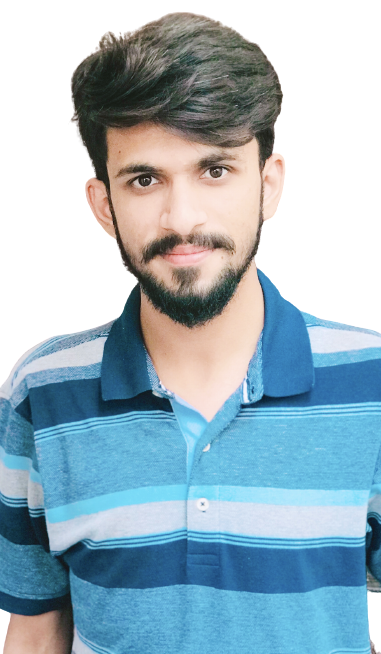
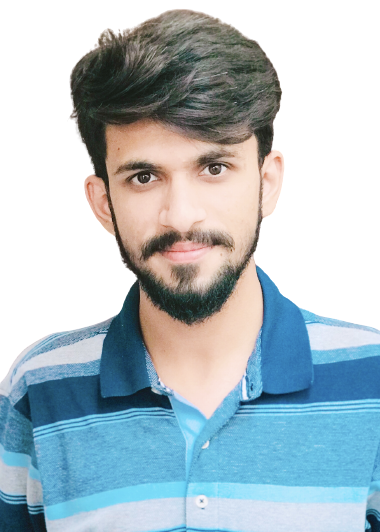
cc

diff --git a/styles/styles.css b/styles/styles.css
@@ -186,23 +186,245 @@ section {
             background: var(--color-white);
             color: var(--color-secondary);
         }
-.header-content .left-header .image {
-  border-radius: var(--br-sm-2);
-  height: 70%;
-  width: 45%;
-  margin-left: 4rem;
-  background-color: var(--color-secondary);
-  transition: all 0.4s ease-in-out;
+/* Enhanced Hero Image Styles */
+.hero-image-container {
+  position: relative;
+  height: 80%;
+  width: 50%;
+  margin-left: 3rem;
+  display: flex;
+  align-items: center;
+  justify-content: center;
 }
-.header-content .left-header .image img {
+
+.image-wrapper {
+  position: relative;
+  width: 320px;
+  height: 400px;
+  border-radius: 25px;
+  overflow: hidden;
+  box-shadow: 0 20px 60px rgba(0, 0, 0, 0.3);
+  transition: all 0.4s ease-in-out;
+  background: linear-gradient(145deg, var(--color-secondary), #1e7d39);
+  padding: 8px;
+  animation: heroFloat 6s ease-in-out infinite;
+}
+
+.image-wrapper::before {
+  content: '';
+  position: absolute;
+  top: 0;
+  left: 0;
+  right: 0;
+  bottom: 0;
+  background: linear-gradient(45deg, transparent, rgba(255,255,255,0.1), transparent);
+  border-radius: 25px;
+  z-index: 1;
+  opacity: 0;
+  transition: opacity 0.4s ease;
+}
+
+.image-wrapper:hover::before {
+  opacity: 1;
+}
+
+.hero-image {
   width: 100%;
   height: 100%;
   object-fit: cover;
+  border-radius: 20px;
   transition: all 0.4s ease-in-out;
-  filter: grayscale(100%);
+  filter: brightness(0.9) contrast(0.9) opacity(0.95);
+  position: relative;
+  z-index: 2;
 }
-.header-content .left-header .image img:hover {
-  filter: grayscale(0);
+
+.image-wrapper:hover {
+  transform: translateY(-10px) scale(1.05);
+  box-shadow: 0 30px 80px rgba(0, 0, 0, 0.4);
+}
+
+.image-wrapper:hover .hero-image {
+  transform: scale(1.05);
+  filter: brightness(1.0) contrast(1.0) opacity(1);
+}
+
+/* Floating Tech Icons */
+.image-decorations {
+  position: absolute;
+  top: 0;
+  left: 0;
+  width: 100%;
+  height: 100%;
+  pointer-events: none;
+}
+
+.floating-icon {
+  position: absolute;
+  width: 60px;
+  height: 60px;
+  background: rgba(255, 255, 255, 0.95);
+  backdrop-filter: blur(15px);
+  border-radius: 50%;
+  display: flex;
+  align-items: center;
+  justify-content: center;
+  border: 2px solid var(--color-secondary);
+  box-shadow: 0 8px 25px rgba(0,0,0,0.2);
+  animation: float 4s ease-in-out infinite;
+  transition: all 0.3s ease;
+}
+
+.floating-icon:hover {
+  transform: scale(1.1);
+  background: var(--color-secondary);
+}
+
+.floating-icon i {
+  font-size: 1.8rem;
+  color: var(--color-secondary);
+  transition: all 0.3s ease;
+}
+
+.floating-icon:hover i {
+  color: var(--color-white);
+}
+
+.tech-icon-img {
+  width: 30px;
+  height: 30px;
+  object-fit: contain;
+  transition: all 0.3s ease;
+}
+
+.icon-1 {
+  top: 10%;
+  right: -25px;
+  animation-delay: 0s;
+}
+
+.icon-2 {
+  top: 40%;
+  left: -25px;
+  animation-delay: 1s;
+}
+
+.icon-3 {
+  bottom: 30%;
+  right: -20px;
+  animation-delay: 2s;
+}
+
+.icon-4 {
+  bottom: 10%;
+  left: -20px;
+  animation-delay: 3s;
+}
+
+/* Keyframe Animations */
+@keyframes heroFloat {
+  0%, 100% {
+    transform: translateY(0px) rotate(0deg);
+  }
+  25% {
+    transform: translateY(-10px) rotate(1deg);
+  }
+  50% {
+    transform: translateY(-5px) rotate(0deg);
+  }
+  75% {
+    transform: translateY(-15px) rotate(-1deg);
+  }
+}
+
+@keyframes float {
+  0%, 100% {
+    transform: translateY(0px) scale(1);
+    opacity: 0.7;
+  }
+  50% {
+    transform: translateY(-15px) scale(1.1);
+    opacity: 1;
+  }
+}
+
+/* Hero Social Links */
+.hero-social-links {
+  margin-top: 2rem;
+  padding-top: 2rem;
+  border-top: 1px solid var(--color-grey-5);
+}
+
+.hero-social-links h4 {
+  font-size: 1.2rem;
+  color: var(--color-secondary);
+  margin-bottom: 1rem;
+  font-weight: 600;
+}
+
+.hero-social-icons {
+  display: flex;
+  gap: 1rem;
+  flex-wrap: wrap;
+}
+
+.hero-social-link {
+  display: flex;
+  align-items: center;
+  gap: 0.5rem;
+  padding: 0.8rem 1.2rem;
+  background: var(--color-grey-5);
+  border-radius: 25px;
+  text-decoration: none;
+  color: var(--color-white);
+  transition: all 0.3s ease;
+  border: 1px solid transparent;
+  font-size: 0.9rem;
+  font-weight: 500;
+}
+
+.hero-social-link:hover {
+  transform: translateY(-3px);
+  box-shadow: 0 8px 20px rgba(0,0,0,0.2);
+}
+
+.hero-social-link.linkedin:hover {
+  background: #0077b5;
+  border-color: #0077b5;
+}
+
+.hero-social-link.github:hover {
+  background: #333;
+  border-color: #333;
+}
+
+.hero-social-link.facebook:hover {
+  background: #1877f2;
+  border-color: #1877f2;
+}
+
+.hero-social-link.twitter:hover {
+  background: #1da1f2;
+  border-color: #1da1f2;
+}
+
+.hero-social-link.youtube:hover {
+  background: #ff0000;
+  border-color: #ff0000;
+}
+
+.hero-social-link.stackoverflow:hover {
+  background: #f48024;
+  border-color: #f48024;
+}
+
+.hero-social-link i {
+  font-size: 1.2rem;
+}
+
+/* Legacy support for old .image class */
+.header-content .left-header .image {
+  display: none;
 }
 .header-content .right-header {
   display: flex;
@@ -513,6 +735,51 @@ section {
 @media screen and (max-width: 768px) {
   .portfolios {
     grid-template-columns: 1fr; /* Single column for mobile */
+  }
+  
+  /* Hero Image Mobile Styles */
+  .hero-image-container {
+    width: 70%;
+    height: 60%;
+    margin-left: 1rem;
+  }
+  
+  .image-wrapper {
+    width: 250px;
+    height: 300px;
+  }
+  
+  .floating-icon {
+    width: 50px;
+    height: 50px;
+  }
+  
+  .floating-icon i {
+    font-size: 1.4rem;
+  }
+  
+  .tech-icon-img {
+    width: 25px;
+    height: 25px;
+  }
+  
+  .icon-1, .icon-2, .icon-3, .icon-4 {
+    animation: none; /* Disable animations on mobile for performance */
+  }
+  
+  /* Hero Social Links Mobile */
+  .hero-social-icons {
+    justify-content: center;
+    gap: 0.8rem;
+  }
+  
+  .hero-social-link {
+    padding: 0.6rem 1rem;
+    font-size: 0.8rem;
+  }
+  
+  .hero-social-link span {
+    display: none; /* Hide text on mobile, show only icons */
   }
 }
 

diff --git a/index.html b/index.html
@@ -22,8 +22,24 @@
         <div class="header-content">
             <div class="left-header">
                 <div class="h-shape"></div>
-                <div class="image">
-                    <img src="img/hero.png" alt="">
+                <div class="hero-image-container">
+                    <div class="image-wrapper">
+                        <img src="img/hero.png" alt="Ali Hamza - Software Engineer" class="hero-image">
+                    </div>
+                    <div class="image-decorations">
+                        <div class="floating-icon icon-1" title="Flutter">
+                            <img src="img/flutter.png" alt="Flutter" class="tech-icon-img">
+                        </div>
+                        <div class="floating-icon icon-2" title="React">
+                            <i class="fab fa-react"></i>
+                        </div>
+                        <div class="floating-icon icon-3" title="Python">
+                            <i class="fab fa-python"></i>
+                        </div>
+                        <div class="floating-icon icon-4" title="JavaScript">
+                            <i class="fab fa-js-square"></i>
+                        </div>
+                    </div>
                 </div>
             </div>
             <div class="right-header">
@@ -41,6 +57,37 @@
                         <span class="btn-text">Download Resume</span>
                         <span class="btn-icon"><i class="fas fa-download"></i></span>
                     </a>
+                </div>
+                
+                <!-- Social Links on Homepage -->
+                <div class="hero-social-links">
+                    <h4>Connect With Me</h4>
+                    <div class="hero-social-icons">
+                        <a href="https://www.linkedin.com/in/mazanaqvi/" target="_blank" class="hero-social-link linkedin" title="LinkedIn">
+                            <i class="fab fa-linkedin-in"></i>
+                            <span>LinkedIn</span>
+                        </a>
+                        <a href="https://github.com/mazanaqvi" target="_blank" class="hero-social-link github" title="GitHub">
+                            <i class="fab fa-github"></i>
+                            <span>GitHub</span>
+                        </a>
+                        <a href="https://www.facebook.com/mazaanaqvi/" target="_blank" class="hero-social-link facebook" title="Facebook">
+                            <i class="fab fa-facebook-f"></i>
+                            <span>Facebook</span>
+                        </a>
+                        <a href="https://twitter.com/mazaanaqvi" target="_blank" class="hero-social-link twitter" title="Twitter">
+                            <i class="fab fa-twitter"></i>
+                            <span>Twitter</span>
+                        </a>
+                        <a href="https://www.youtube.com/channel/UCfqP1OsD9GJE7BoeZV53AsA" target="_blank" class="hero-social-link youtube" title="YouTube">
+                            <i class="fab fa-youtube"></i>
+                            <span>YouTube</span>
+                        </a>
+                        <a href="https://stackoverflow.com/users/13111347/ali-hamza" target="_blank" class="hero-social-link stackoverflow" title="Stack Overflow">
+                            <i class="fab fa-stack-overflow"></i>
+                            <span>Stack Overflow</span>
+                        </a>
+                    </div>
                 </div>
             </div>
         </div>
@@ -457,6 +504,9 @@
                                 </a>
                                 <a href="https://www.youtube.com/channel/UCfqP1OsD9GJE7BoeZV53AsA" target="_blank">
                                     <i class="fab fa-youtube"></i>
+                                </a>
+                                <a href="https://stackoverflow.com/users/13111347/ali-hamza" target="_blank">
+                                    <i class="fab fa-stack-overflow"></i>
                                 </a>
                             </div>
                         </div>
